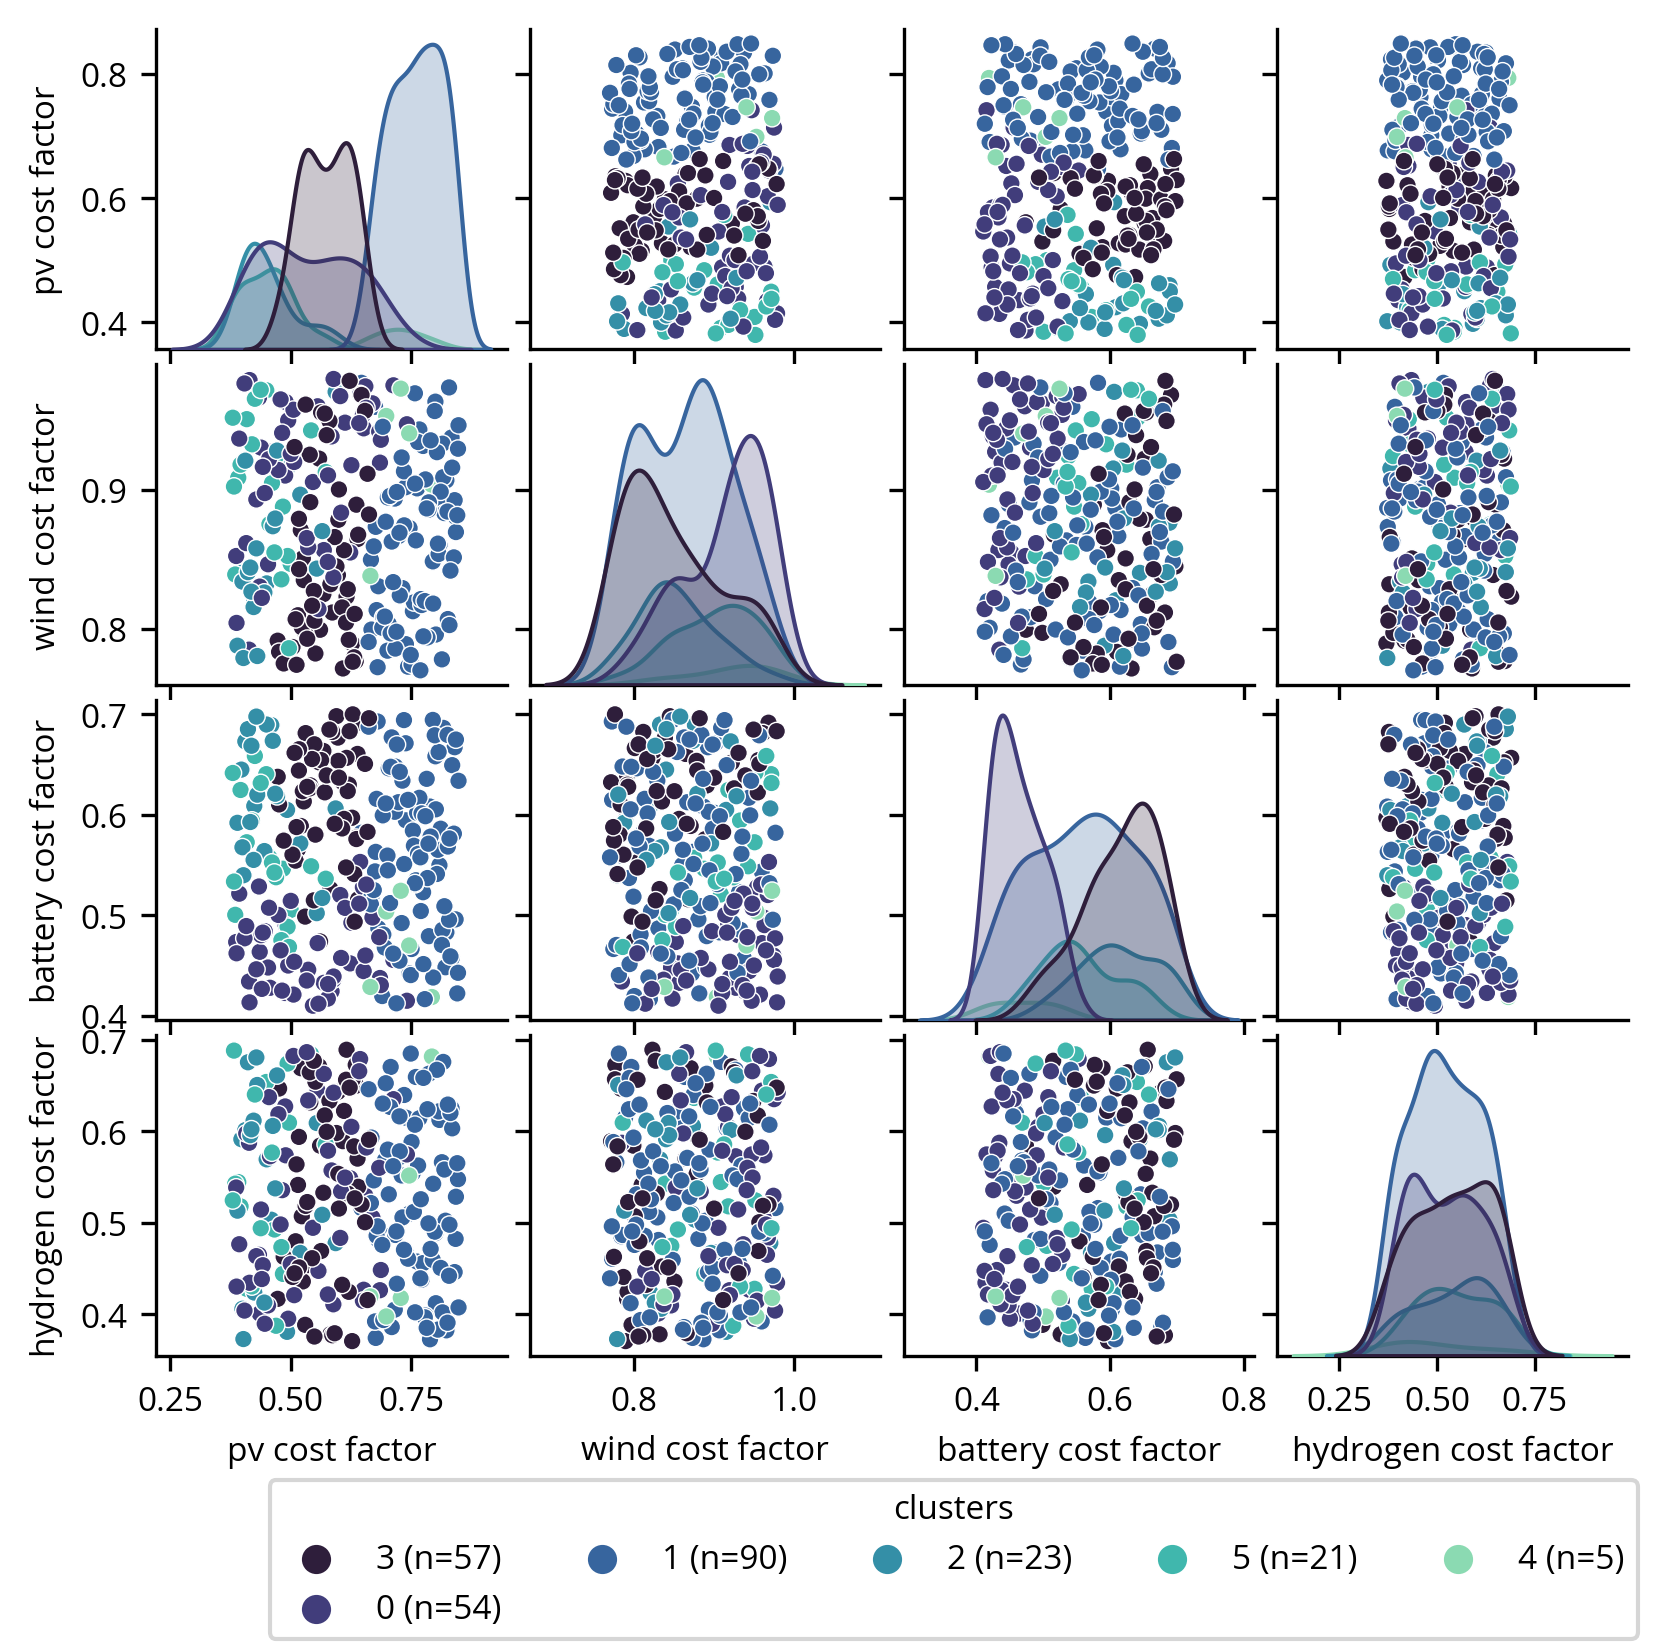
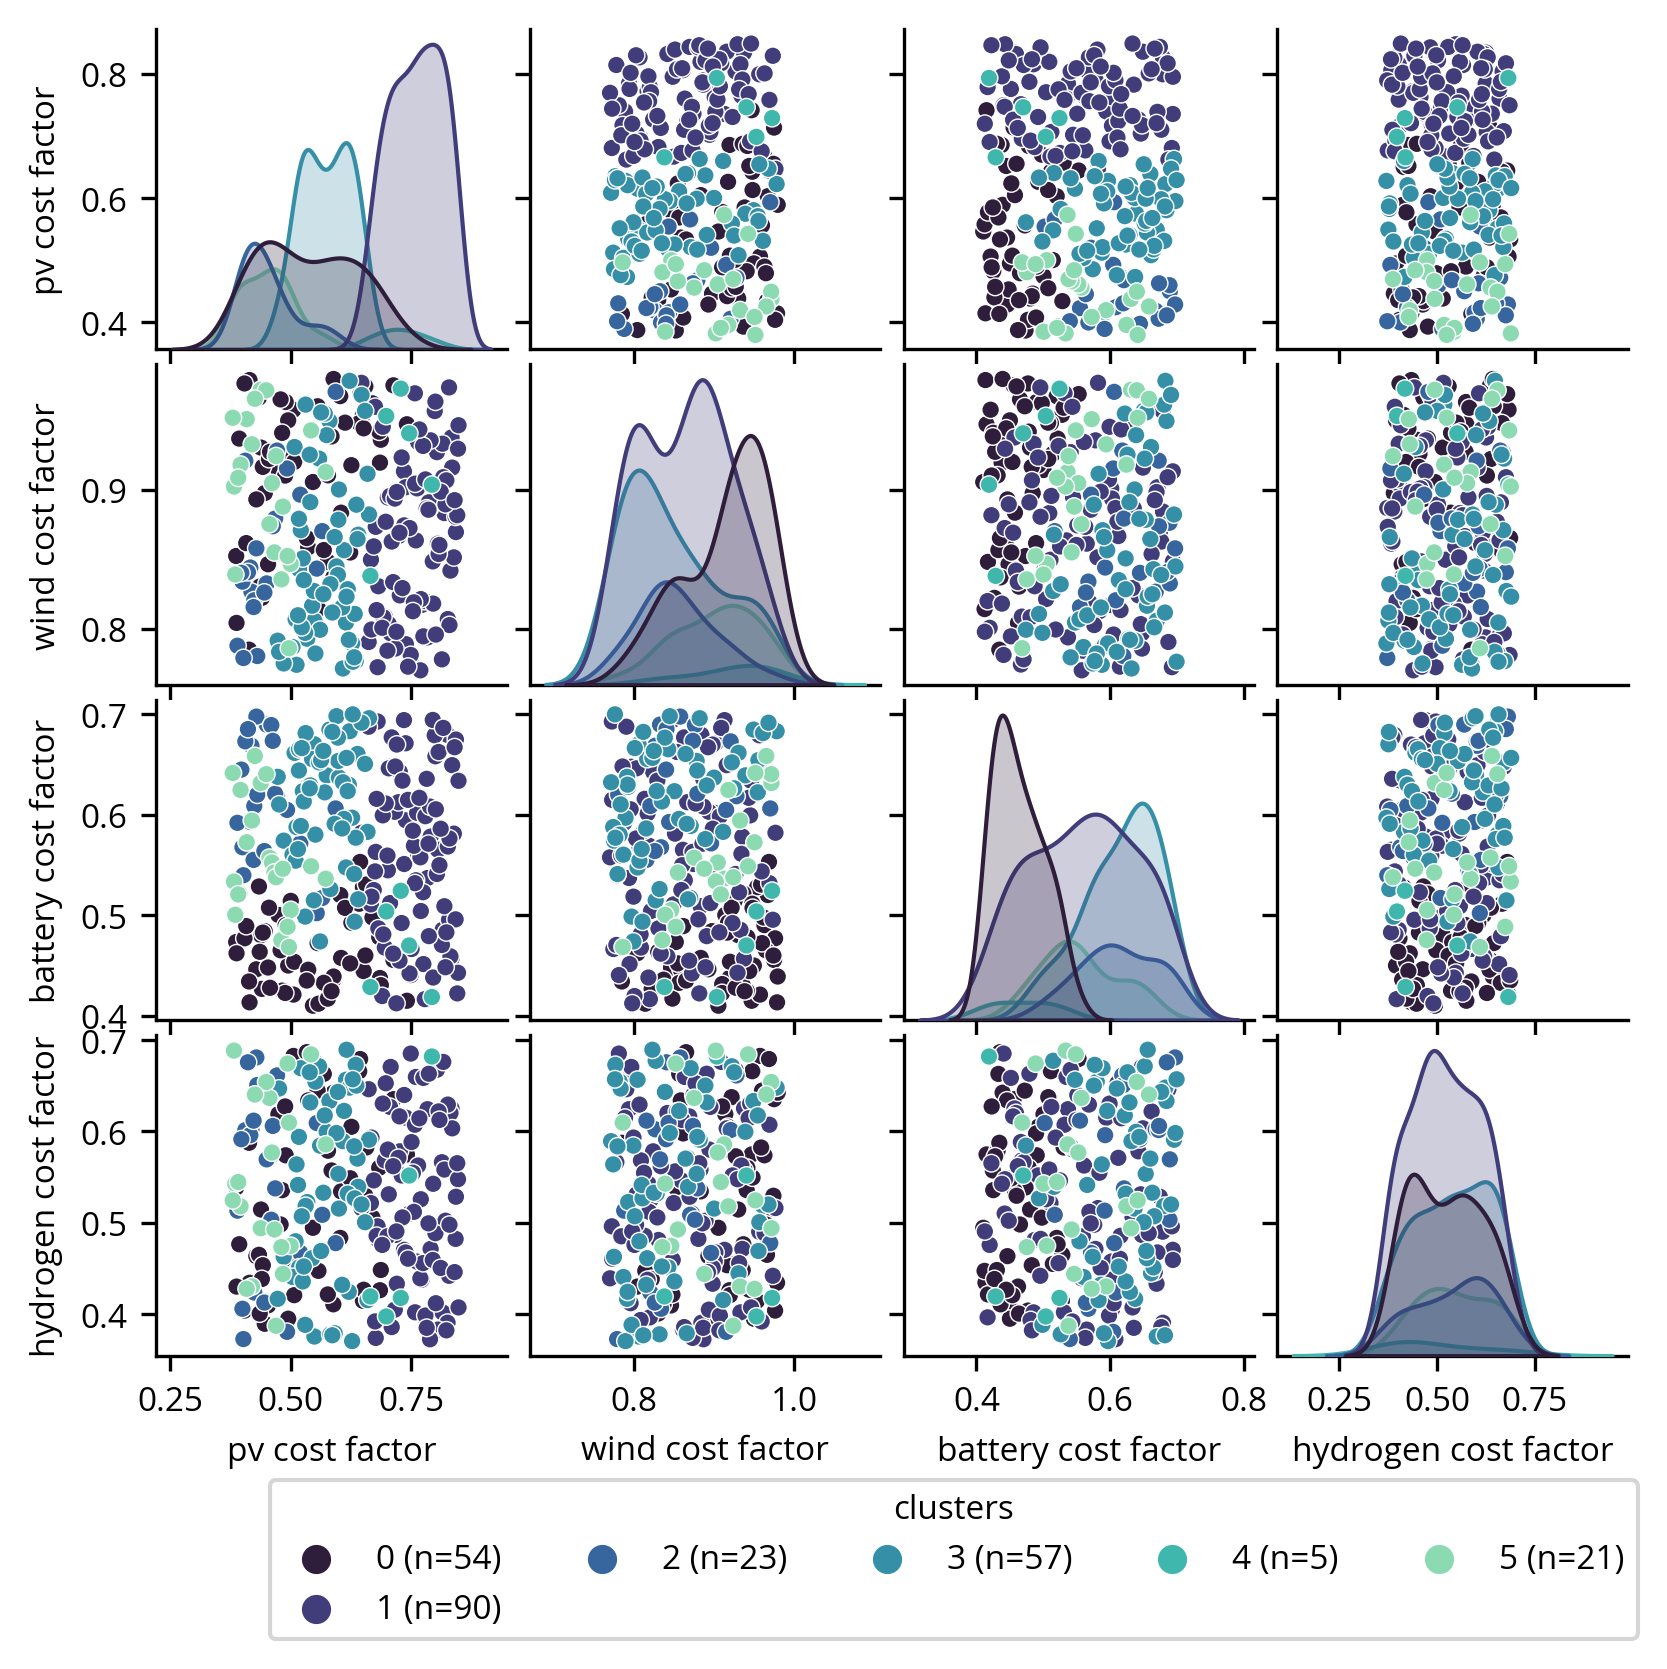
gld2030 viz done

diff --git a/thesis scripts/experiments/2030/analysis/report_2030_gld0_clustering.py b/thesis scripts/experiments/2030/analysis/report_2030_gld0_clustering.py
@@ -35,7 +35,7 @@ RESOURCE_FOLDER.mkdir(exist_ok=True)
 ## constants
 COLLECTION = "gld2030"
 RUN_ID = "2310_v2"
-palette = "mako"
+palette = sns.color_palette("mako", n_colors=4)
 cmap = sns.diverging_palette(190, 130, l=50, s=90, as_cmap=True)
 pair_plot_fontsize = 8
 decrease_legend = False
@@ -119,7 +119,7 @@ for target, settings in targets.items():
             y=tsne_y,
             hue=cluster_labels,
             ax=ax,
-            palette=palette,
+            palette="mako",
             alpha=0.3,
         )
         default_matplotlib_save(
@@ -140,17 +140,16 @@ for target, settings in targets.items():
 
     df = db.query(f"target_RE_strategy == '{target}'").copy()
     for cl in clusters:
+
         # subset-df
         sdf = df[[*pairplot_col_map.values(), cl]].copy()
-
-        hue_order = {}
-
-        for name in sdf[cl].unique():
-            for x in range(len(sdf[cl].unique())):
-                if f"{x} (" in name:
-                    value = x
-            hue_order.update({name: value})
-
+        sdf.sort_values(cl, inplace=True)
+        ncl = len(sdf[cl].unique())
+        if cl == 'clusters_dis_threshold':
+            pal = "mako"
+        else:
+            pal = palette[:ncl]
+            
         plt.tight_layout(pad=PAD)
 
         rc = {
@@ -159,7 +158,7 @@ for target, settings in targets.items():
         }
         plt.rcParams.update(rc)
         g = sns.pairplot(
-            sdf, hue=cl, hue_order=hue_order, palette=palette, plot_kws={"size": 10}
+            sdf, hue=cl, palette=pal, plot_kws={"size": 10}
         )
 
         g._legend_data.pop("10")
@@ -184,4 +183,3 @@ for target, settings in targets.items():
             dpi=300,
             bbox_inches="tight",
         )
-
